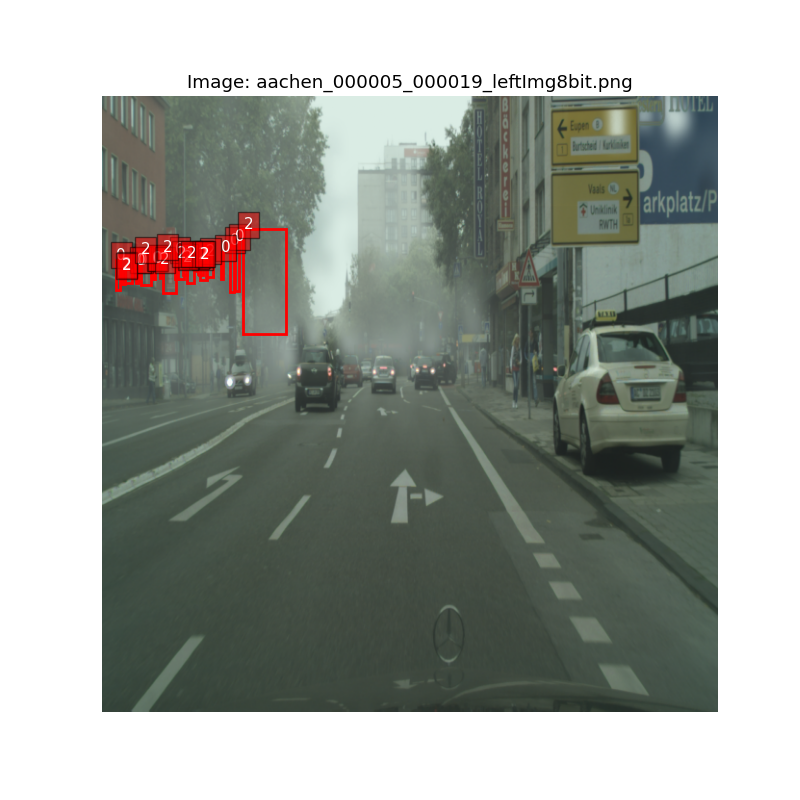
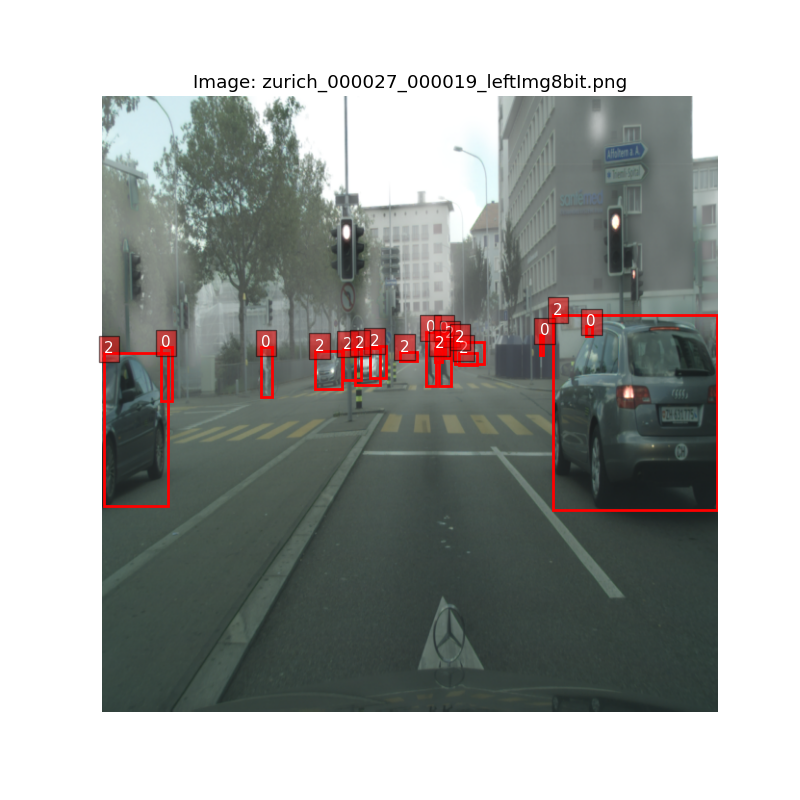
separate fogpass loader from detection loader

diff --git a/train.py b/train.py
@@ -9,7 +9,8 @@ from torch.optim import lr_scheduler
 from torch.utils.data import DataLoader
 import sys
 # path = r"D:\UNI\LAB\FIOD_\yolov9_main"
-path = r"/content/drive/Othercomputers/laptop/FIOD_/yolov9_main"
+# path = r"/content/drive/Othercomputers/laptop/FIOD_/yolov9_main"
+path = r"/content/drive/MyDrive/FIOD_/yolov9_main"
 sys.path.insert(0, path)
 # import wandb
 from tqdm import tqdm
@@ -76,7 +77,7 @@ def intersect_dicts(da, db, exclude=()):
     return {k: v for k, v in da.items() if k in db and all(x not in k for x in exclude) and v.shape == db[k].shape}
 
 # def get_model(checkpoint_path = r"D:\UNI\LAB\FIOD_\yolov9-s.pt"):
-def get_model(checkpoint_path = r"/content/drive/Othercomputers/laptop/FIOD_/yolov9-s.pt"):
+def get_model(checkpoint_path = r"/content/drive/MyDrive/FIOD_/yolov9-s.pt"):
     checkpoint = torch.load(checkpoint_path, map_location="cpu")
     model = Model(checkpoint['model'].yaml).to(device)
     csd = checkpoint['model'].float().state_dict()
@@ -104,6 +105,8 @@ def create_infinite_iterator(loader):
 def visualize_sample(dataset, index=0, target_size=640):
     # Lấy một mẫu từ dataset
     src_image, trg_image, boxes, labels, name = dataset[index]
+    print(f"Name: {name}")
+    print(f"Boxes: {boxes.shape}")
     # src_image có định dạng tensor (C, H, W) và đã ở định dạng BGR
     # Chuyển đổi từ tensor sang numpy, chuyển từ CHW sang HWC
     img = src_image.numpy().transpose((1, 2, 0))
@@ -146,13 +149,12 @@ def visualize_sample(dataset, index=0, target_size=640):
 
     ax.set_title(f"Image: {name}")
     plt.axis('off')
-    os.makedirs('results', exist_ok=True)
-    save_path = os.path.join('results', 'visual.png')
+    os.makedirs('visualize', exist_ok=True)
+    save_path = os.path.join('visualize', 'visual_{:04d}.png'.format(index))
 
     # Lưu hình vào file
     plt.savefig(save_path)
     plt.close()
-
 
 def main():
     # wandb.init(mode="disabled")
@@ -267,7 +269,7 @@ def main():
 
     save_dir = os.path.join(os.path.dirname(__file__), 'results')
     gs = max(int(model.stride.max()), 32)
-    val_loader = create_dataloader(r"/content/yolo_data/yolov9_modify_architecture/cityscape_yolo_format_subset_2000_foggy/val",
+    val_loader = create_dataloader(r"/content/yolov9_modify_architecture/cityscape_yolo_format_subset_2000_foggy/val",
                                    640,
                                    args.batch_size,
                                    gs,
@@ -295,6 +297,11 @@ def main():
     con_losses = []
     total_losses = []
 
+    for i in range(1000):
+        visualize_sample(cwsf_dataset, index=i)
+
+    return
+
     # wandb.init(project="yolov9_training", name="experiment_1")
     for epoch in range(args.num_epochs):
         model.train()
@@ -308,12 +315,17 @@ def main():
         num_batches_cw_sf = 0 # number of batches of SF-CW pair (batch_idx % 3 == 0)
 
         print("Number of batches: ", num_batches)
+        print("Loader fogpass: ", len(cwsf_pair_loader_fogpass))
 
         # Progress bar for the current epoch
-        pbar = tqdm(enumerate(cwsf_pair_loader), total=len(cwsf_pair_loader), desc=f"Epoch {epoch + 1}/{args.num_epochs}")
+        pbar = tqdm(range(num_batches), desc=f"Epoch {epoch + 1}/{args.num_epochs}")
 
-        for batch_idx, (foggy_image, clear_image, box, name) in pbar:
-            ###### Train fog-pass filtering module
+        for batch_idx in pbar:
+            ##############################
+            # Fog-pass filtering training using fogpass loader
+            foggy_image, clear_image, box, name = next(iter(cwsf_pair_loader_fogpass))
+            rf_img, rf_name = next(iter(rf_loader_fogpass))
+
             model.eval()
             for param in model.parameters():
                 param.requires_grad = False
@@ -418,8 +430,13 @@ def main():
                 total_fpf_loss.backward()
             FogPassFilter1_optimizer.step()
             FogPassFilter2_optimizer.step()
+            ##############################
 
-            ###### Train detection model
+            ##############################
+            # Detection training using NORMAL loader
+            foggy_image, clear_image, box, name = next(iter(cwsf_pair_loader))
+            rf_img, rf_name = next(iter(rf_loader))
+
             model.train()
             for param in model.parameters():
                 param.requires_grad = True
@@ -442,7 +459,8 @@ def main():
                 boxes = box.to(device)
 
                 # Get predictions and features
-                with torch.amp.autocast(amp_device):
+                # with torch.amp.autocast(amp_device):
+                with torch.autocast(device_type=amp_device, dtype=torch.float16):
                     sf_predictions = model(sf_images)  # forward
                     sf_loss, sf_loss_items = compute_loss(sf_predictions[1], boxes)
                     sf_box_loss, sf_class_loss, sf_dfl_loss = sf_loss_items
@@ -455,7 +473,7 @@ def main():
                 feature_sf0, feature_sf1 = sf_features_list[0], sf_features_list[1]
 
                 cw_features_list = extractor.get_feature_maps(cw_images)
-                feature_cw0, feature_cw1 = cw_features_list[0], cw_features_list[1]
+                feature_cw0, feature_cw1 = cw_features_list[0], feature_cw1[1]
 
                 # CONSISTENCY LOSS
                 pl = len(sf_predictions[1]) # prediction layers
@@ -466,11 +484,40 @@ def main():
                     con_loss /= args.batch_size
                 con_loss /= pl
 
-                print(colorstr('yellow', f'con_loss: {con_loss}'))
+                if torch.isnan(sf_predictions[1][i][j]).any() or torch.isnan(cw_predictions[1][i][j]).any():
+                    print("NaN detected in predictions at layer", i, "batch index", j)
 
                 fsm_weights = {'layer0': 0.5, 'layer1': 0.5}
                 sf_features = {'layer0': feature_sf0, 'layer1': feature_sf1}
                 cw_features = {'layer0': feature_cw0, 'layer1': feature_cw1}
+
+                # Added visualization if class loss > 100
+                if (sf_class_loss + cw_class_loss) > 5:
+                    # Visualize the first clear image of the batch
+                    img = cw_images[0].cpu().numpy().transpose(1,2,0)
+                    img = img[..., ::-1]  # BGR to RGB conversion
+                    bb = boxes[0].cpu().numpy()
+                    if bb.max() <= 1.0:
+                        bb[:,0] = bb[:,0] * 640  # x_center
+                        bb[:,1] = bb[:,1] * 640  # y_center
+                        bb[:,2] = bb[:,2] * 640  # width
+                        bb[:,3] = bb[:,3] * 640  # height
+                    # Convert from [x_center, y_center, width, height] to [x1, y1, x2, y2]
+                    x1 = bb[:,0] - bb[:,2] / 2
+                    y1 = bb[:,1] - bb[:,3] / 2
+                    x2 = bb[:,0] + bb[:,2] / 2
+                    y2 = bb[:,1] + bb[:,3] / 2
+                    plt.figure(figsize=(8,8))
+                    plt.imshow(img)
+                    for j in range(len(x1)):
+                        rect = patches.Rectangle((x1[j], y1[j]), x2[j]-x1[j], y2[j]-y1[j],
+                                                 linewidth=2, edgecolor='r', facecolor='none')
+                        plt.gca().add_patch(rect)
+                        plt.text(x1[j], y1[j], f'{j}', color='white',
+                                 bbox=dict(facecolor='red', alpha=0.5))
+                    os.makedirs('results', exist_ok=True)
+                    plt.savefig(os.path.join('results', f'visual_batch_epoch{epoch}_batch{batch_idx}.png'))
+                    plt.close()
 
             elif batch_idx % 3 == 1:
                 # SF-RF training
@@ -478,7 +525,8 @@ def main():
                 rf_images = rf_img.to(device, non_blocking=True).float()
                 boxes = box.to(device)
 
-                with torch.amp.autocast(amp_device):
+                # with torch.amp.autocast(amp_device):
+                with torch.autocast(device_type=amp_device, dtype=torch.float16):
                     sf_predictions = model(sf_images)  # forward
                     sf_loss, sf_loss_items = compute_loss(sf_predictions[1], boxes)
                     sf_box_loss, sf_class_loss, sf_dfl_loss = sf_loss_items
@@ -487,7 +535,7 @@ def main():
 
                 rf_predictions = model(rf_images)
                 rf_features_list = extractor.get_feature_maps(rf_images)
-                feature_rf0, feature_rf1 = rf_features_list[0], rf_features_list[1]
+                feature_rf0, feature_rf1 = rf_features_list[0], feature_rf_features_list[1]
 
                 rf_features = {'layer0': feature_rf0, 'layer1': feature_rf1}
                 sf_features = {'layer0': feature_sf0, 'layer1': feature_sf1}
@@ -499,16 +547,17 @@ def main():
                 rf_images = rf_img.to(device, non_blocking=True).float()
                 boxes = box.to(device)
 
-                with torch.amp.autocast(amp_device):
+                # with torch.amp.autocast(amp_device):
+                with torch.autocast(device_type=amp_device, dtype=torch.float16):
                     cw_predictions = model(cw_images)
                     cw_loss, cw_loss_items = compute_loss(cw_predictions[1], boxes)
                     cw_box_loss, cw_class_loss, cw_dfl_loss = cw_loss_items
                 cw_features_list = extractor.get_feature_maps(cw_images)
-                feature_cw0, feature_cw1 = cw_features_list[0], cw_features_list[1]
+                feature_cw0, feature_cw1 = cw_features_list[0], feature_cw1[1]
 
                 rf_predictions = model(rf_images)
                 rf_features_list = extractor.get_feature_maps(rf_images)
-                feature_rf0, feature_rf1 = rf_features_list[0], rf_features_list[1]
+                feature_rf0, feature_rf1 = rf_features_list[0], feature_rf1[1]
 
                 rf_features = {'layer0': feature_rf0, 'layer1': feature_rf1}
                 cw_features = {'layer0': feature_cw0, 'layer1': feature_cw1}
@@ -516,6 +565,14 @@ def main():
 
             loss_fsm = 0
             fog_pass_filter_loss = 0
+
+
+            print(colorstr(f"batch index {batch_idx + 1}: ") +
+                f"{colorstr('yellow', 'box_loss')}: {sf_box_loss:.4f}, "
+                f"{colorstr('yellow', 'dfl_loss')}: {cw_dfl_loss:.4f}, "
+                f"{colorstr('yellow', 'cls_loss')}: {cw_class_loss:.4f}, "
+                f"{colorstr('yellow', 'con_loss')}: {con_loss:.4f}"
+            )
 
             for idx, layer in enumerate(fsm_weights):
                 a_feature = None
@@ -578,7 +635,6 @@ def main():
             with torch.autograd.detect_anomaly():
                 scaler.scale(total_loss).backward()
             scaler.unscale_(optimizer)  # unscale gradients
-
             torch.nn.utils.clip_grad_norm_(model.parameters(), max_norm=10.0)  # clip gradients
             scaler.step(optimizer)  # optimizer.step
             scaler.update()

diff --git a/config/config.py b/config/config.py
@@ -12,10 +12,10 @@ NUM_STEPS = 1000000
 NUM_STEPS_STOP = 60000  # early stopping
 RANDOM_SEED = 1234
 
-SF_ROOT = r"/content/yolo_data/yolov9_modify_architecture/cityscape_yolo_format_subset_2000_foggy"
-CW_ROOT = r"/content/yolo_data/yolov9_modify_architecture/cityscape_yolo_format_subset_2000"
-RF_ROOT = r"/content/yolo_data/yolov9_modify_architecture/Foggy_Driving/Foggy_Driving"
-RF_LIST_FILE = r"/content/yolo_data/yolov9_modify_architecture/Foggy_Driving/Foggy_Driving/lists_file_names/leftImg8bit_testall_filenames.txt"
+SF_ROOT = r"/content/yolov9_modify_architecture/cityscape_yolo_format_subset_2000_foggy"
+CW_ROOT = r"/content/yolov9_modify_architecture/cityscape_yolo_format_subset_2000"
+RF_ROOT = r"/content/yolov9_modify_architecture/Foggy_Driving/Foggy_Driving"
+RF_LIST_FILE = r"/content/yolov9_modify_architecture/Foggy_Driving/Foggy_Driving/lists_file_names/leftImg8bit_testall_filenames.txt"
 
 # SF_ROOT = "E:\\yolov9_modify_architecture\\cityscape_yolo_format_subset_2000_foggy"
 # CW_ROOT = "E:\\yolov9_modify_architecture\\cityscape_yolo_format_subset_2000"
